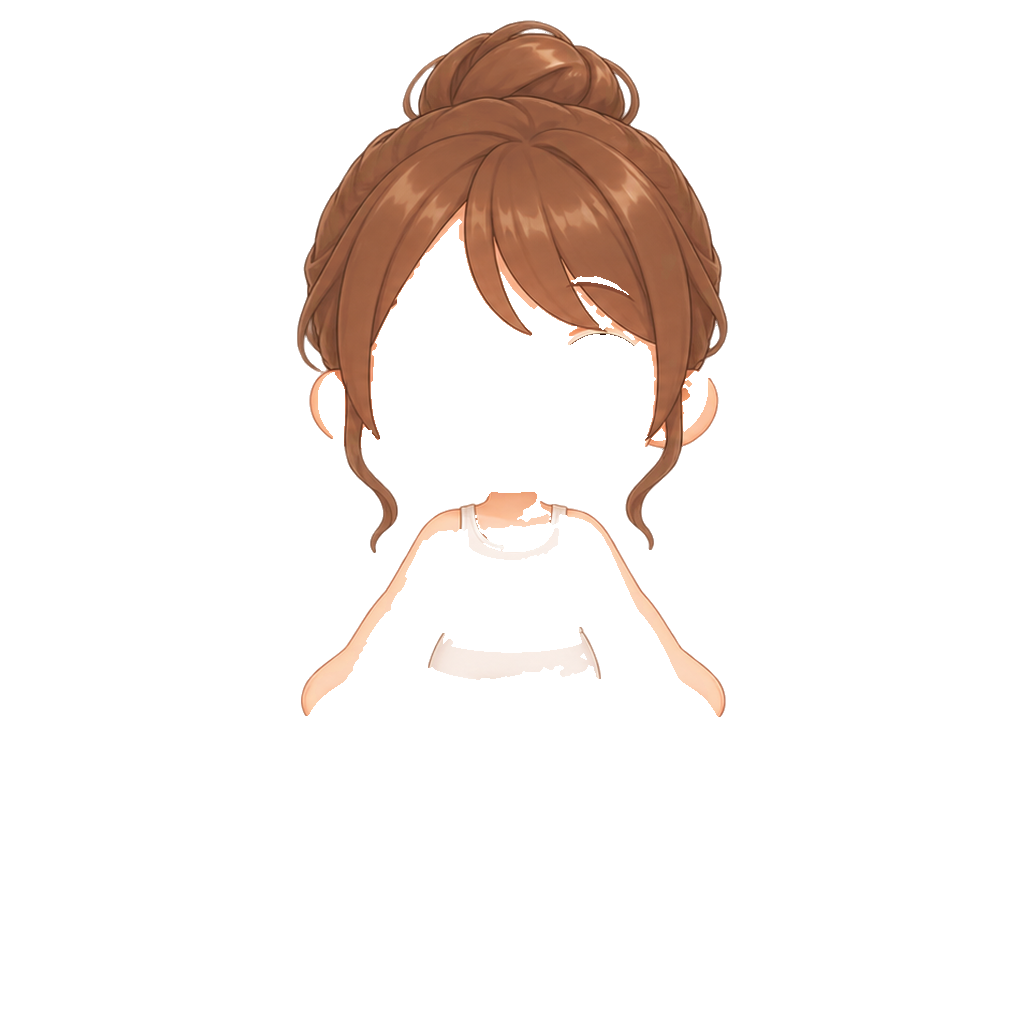
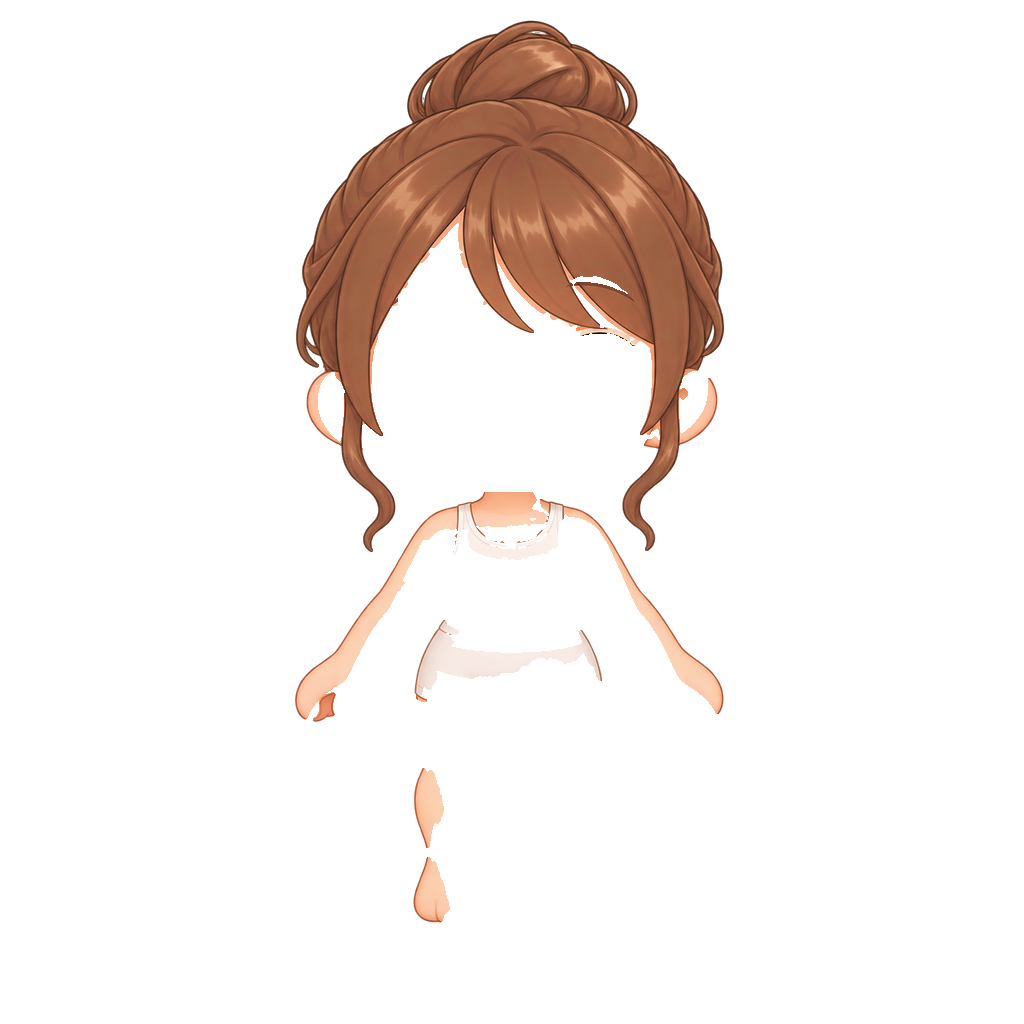
feat(iq2): 髪型4種を高解像度素材で差し替え
Claude-Session: https://claude.ai/code/session_01NXuBE3U4UAebFXMPco3J5UQ

diff --git a/tools/avatar_hair.py b/tools/avatar_hair.py
@@ -10,7 +10,10 @@ from scipy import ndimage
 ap=argparse.ArgumentParser(); ap.add_argument("src"); ap.add_argument("hair"); ap.add_argument("color"); ap.add_argument("--body",default="public/avatar/body/f__light.png")
 a=ap.parse_args()
 sh=Image.open(a.src).convert("RGBA"); W,H=sh.size
-left=sh.crop((0,0,W//2,H)); right=sh.crop((W//2,0,W,H))
+_a=np.array(sh)[:,:,3]>10; col=_a.sum(axis=0); mid=W//2
+# 中央付近で最も透明な列を分割点にする
+win=col[int(W*0.35):int(W*0.65)]; cut=int(W*0.35)+int(np.argmin(win))
+left=sh.crop((0,0,cut,H)); right=sh.crop((cut,0,W,H))
 bd=Image.open(a.body).convert("RGBA"); B=np.array(bd).astype(int); vis=B[:,:,3]>200
 def bb(i):
     m=np.array(i)[:,:,3]>10; ys,xs=np.where(m); return xs.min(),xs.max(),ys.min(),ys.max()
